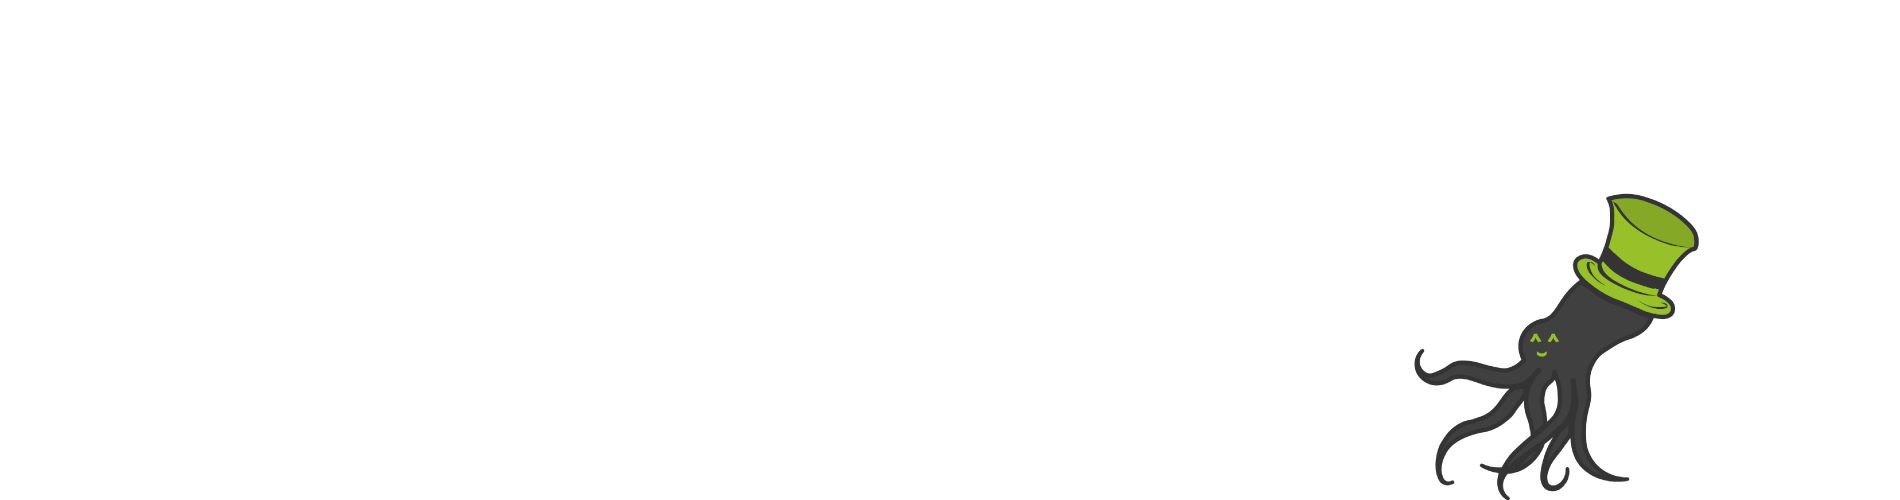
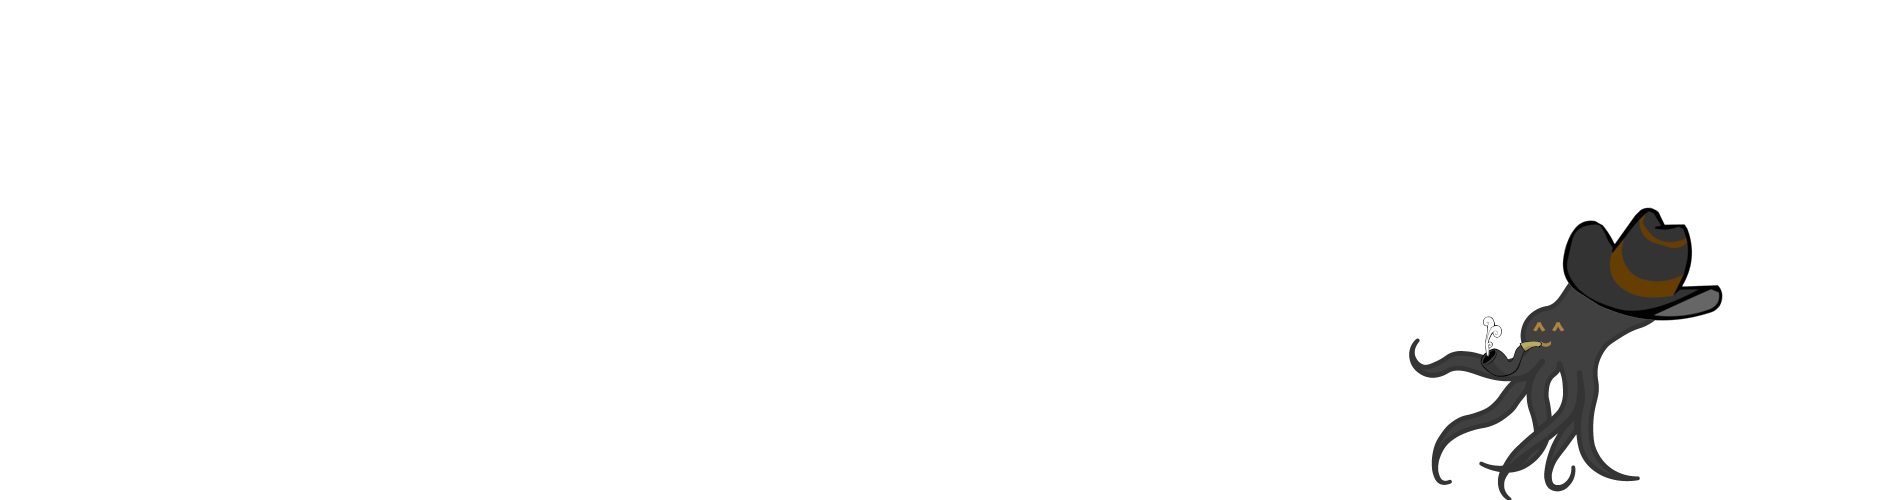
Add Alberto helper

Changed region(s): [[0.7142, 0.39, 0.9316, 0.99]]

diff --git a/components/home/Home.vue b/components/home/Home.vue
@@ -34,12 +34,13 @@
                     <i class="fas fa-campground fade-in"></i>
                 </span>
             </span>
-            <h3 class="title">Adapt</h3>
-            En compagnie d'Alberto, le premier poulpe a avoir effectué le tour du monde en solitaire (!), vous
-            trouverez dans ce site votre meilleur ami lorsque les vivres viennent à manquer, que les itempéries s'abattent
-            sur vous, et que le moral est au plus bas. Grâce à ses fonctionnalités révolutionnaires dans le monde de la survie,
-            vous aurez accès à une toute nouvelle manière de repousser les frontières de l'inconnu.
-
+            <h3 class="title" id="mabite">Adapt</h3>
+            En compagnie d'Alberto, le premier poulpe a avoir effectué le tour du monde
+            en solitaire (!), vous trouverez dans ce site votre meilleur ami lorsque les
+            vivres viennent à manquer, que les itempéries s'abattent sur vous, et que le moral
+            est au plus bas. Grâce à ses fonctionnalités révolutionnaires dans le monde de la
+            survie, vous aurez accès à une toute nouvelle manière de repousser les frontières
+            de l'inconnu.
         </div>
 
         <div class="column">
@@ -131,6 +132,10 @@ export default {
 .fas{
     font-size: 60px;
     transform: translate(-25%, 0);
+}
+
+#mabite{
+    margin-bottom: 24px;
 }
 
 </style>

diff --git a/components/articles/List.vue b/components/articles/List.vue
@@ -12,6 +12,8 @@
             <Item  v-bind:article="item" v-bind:socket="socket"/>
         </div>
     </ul>
+
+    <Help v-bind:tip="'Voici des articles publiés par les autorités compétentes pour vous tenir au courant des actualités.'"/>
 </div>
 
 </template>
@@ -20,13 +22,12 @@
 
 <script>
 
-//TODO Improve template
-
 import Item from '@/components/articles/Item'
+import Help from '@/components/Help'
 
 export default {
     props: ['socket', 'articles'],
-    components: {Item},
+    components: {Item, Help},
     methods: {
         viewArticle : function (id) {
 

diff --git a/components/Signup.vue b/components/Signup.vue
@@ -68,6 +68,9 @@
                 </div>
             </div>
         </div>
+
+        <Help v-bind:tip="'Vous inscrire vous donnera accès à de nombreuses fonctionnalités supplémentaires'"/>
+    </div>
   </div>
 
 </template>
@@ -86,6 +89,7 @@ var data   = {
     password: ''   //Crypted version
 };
 
+import Help from '@/components/Help'
 
 export default {
 
@@ -102,6 +106,8 @@ export default {
     },
 
     props: ['socket'],
+
+    components: {Help},
 
 
     created(){

diff --git a/components/Help.vue b/components/Help.vue
@@ -1,0 +1,34 @@
+<template>
+
+<div id="helper">
+    <div id="tip"> {{tip}} </div>
+    <img src="~/static/alberto-help.png" id="alberto">
+</div>
+
+</template>
+
+
+<script>
+
+export default {
+    props: ["tip"]
+}
+
+</script>
+
+
+<style>
+
+#helper{
+    position: absolute;
+    bottom: 15px;
+    right: 15px;
+    width: 300px;
+
+}
+
+#alberto{
+    width: 300px;
+}
+
+</style>

diff --git a/components/articles/Writer.vue b/components/articles/Writer.vue
@@ -19,6 +19,7 @@
             <a class="button is-link" id="submit" v-on:click="submit">Submit</a>
 
         </div>
+
     </div>
 
 </template>
@@ -26,6 +27,8 @@
 
 
 <script>
+
+
 
 let data = {
         title : 'Your title',
